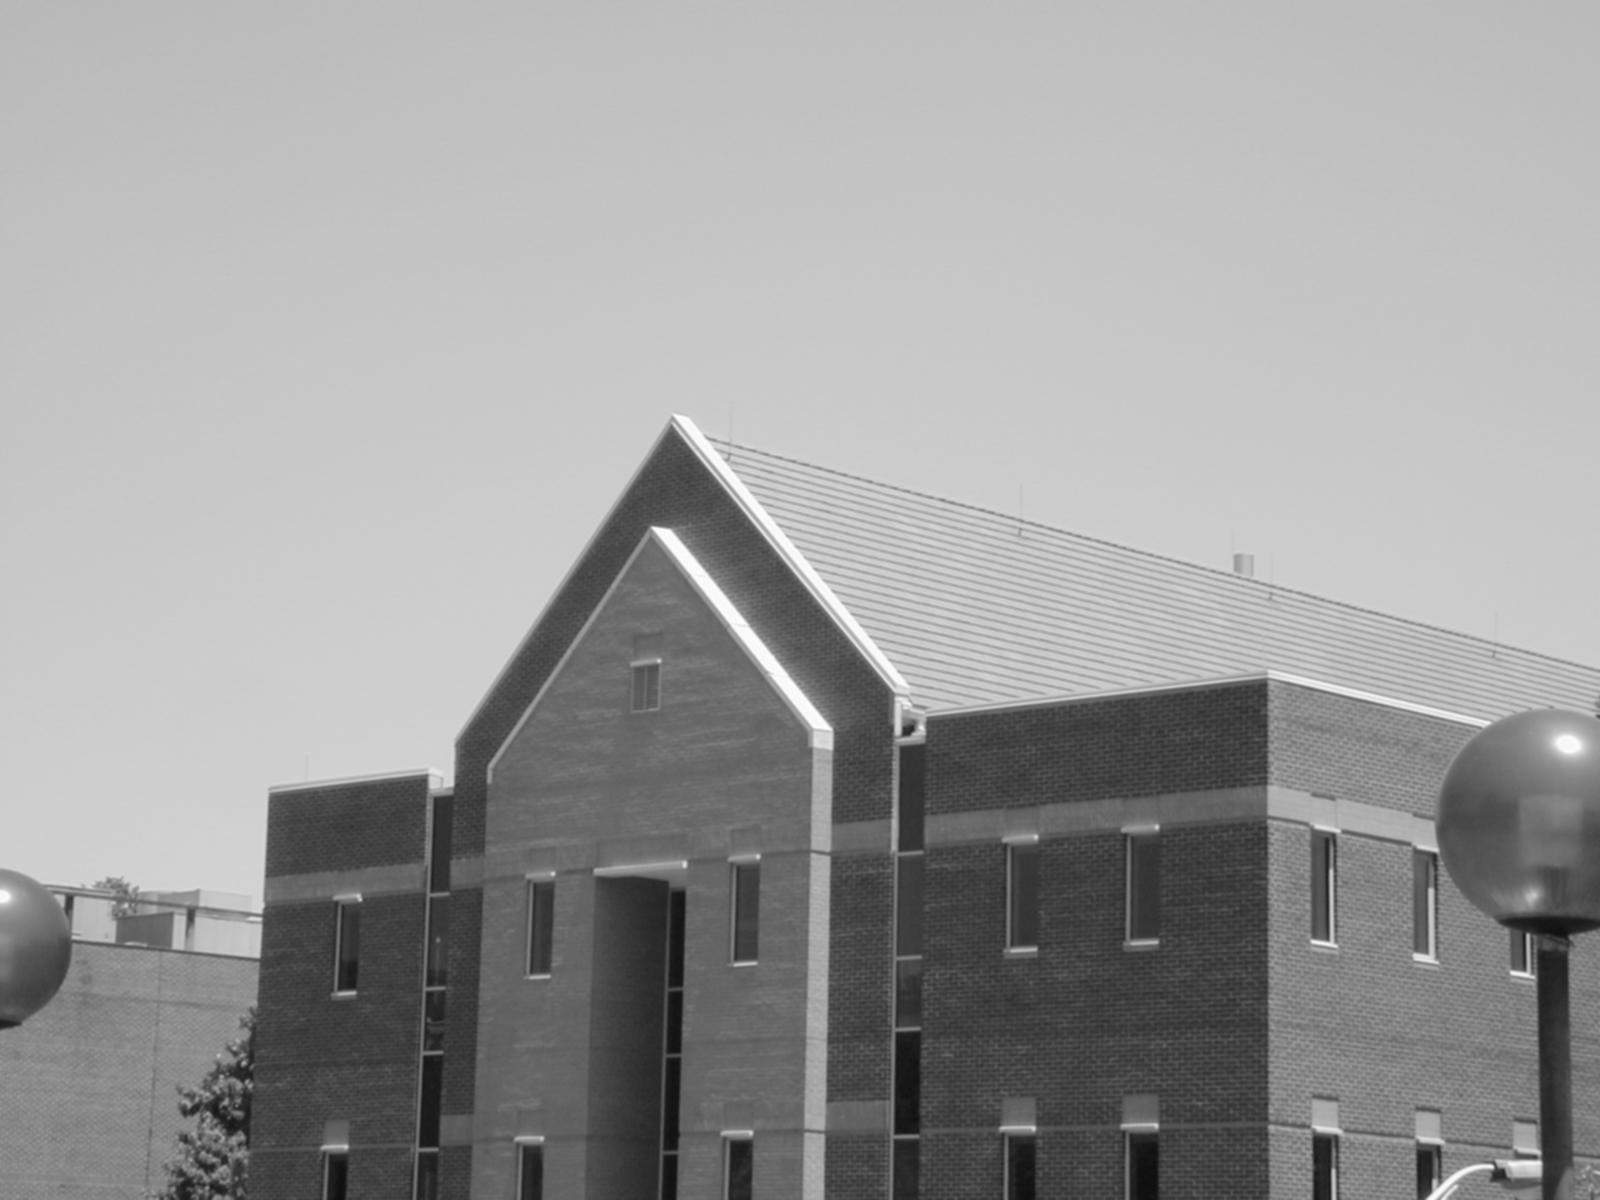
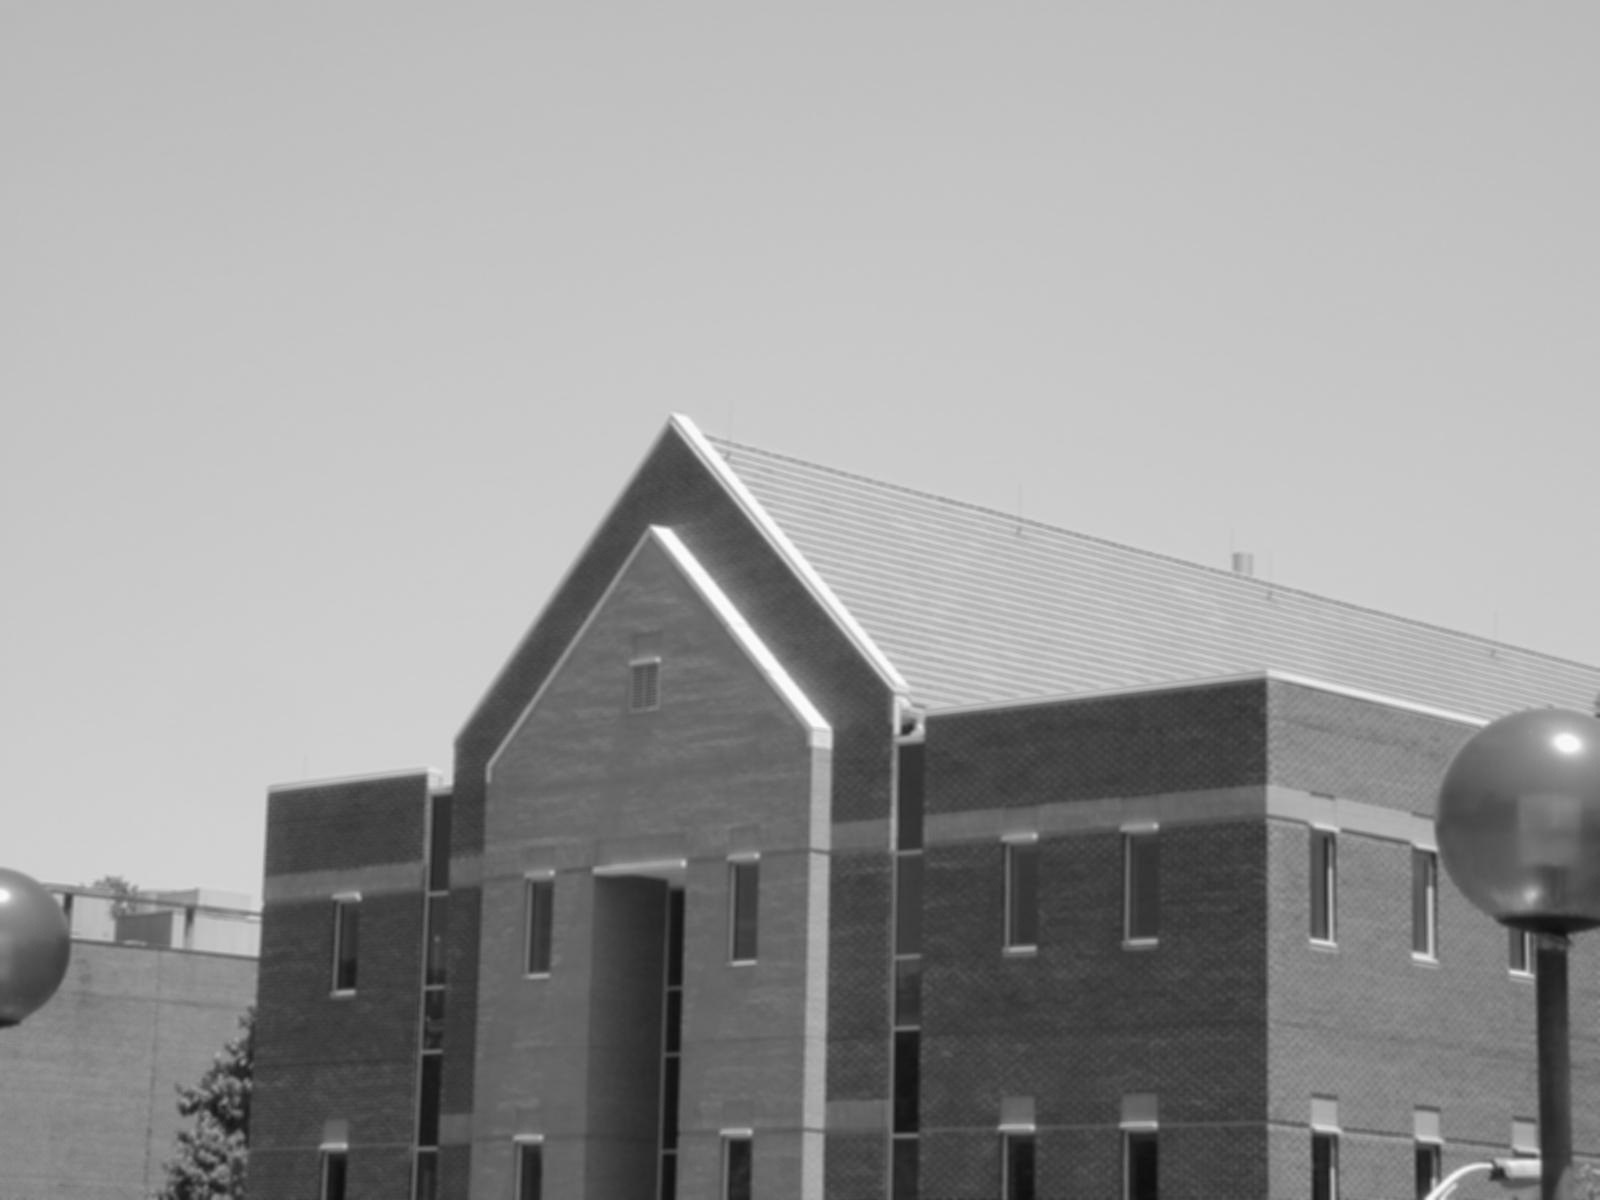
add 3

diff --git a/questao3.py b/questao3.py
@@ -93,6 +93,46 @@ def convolucaonxn(imagem, filtro, constante, nome, tamanho_filtro, correcao,rota
 
     return img
 
+def convolucaonxn_v2(imagem, filtro, tamanho_filtro):
+
+    pixels = np.asarray(imagem, dtype='float64')
+
+    ##Realiza a convulação
+    img = Image.new(imagem.mode, imagem.size, color = 'black')
+    pixels_n = np.asarray(img,dtype='float64')
+
+    for i in range(imagem.size[0]):
+        for j in range(imagem.size[1]):
+
+            resultado=0
+            initCounter = - int(tamanho_filtro/2)
+            linha = initCounter
+            coluna = initCounter
+            
+            for ii in filtro:
+                for jj in ii:
+
+                    pos_y=i+linha
+                    pos_x=j+coluna
+                    ##Trata Bordas aqui
+                    if(pos_y<0):
+                        pos_y=0
+                    if(pos_x<0):
+                        pos_x=0
+                    if(pos_y>=imagem.size[0]):
+                        pos_y=imagem.size[0]-1
+                    if(pos_x>=imagem.size[1]):
+                        pos_x=imagem.size[1]-1
+                    resultado+=pixels[pos_x, pos_y]*jj
+                    
+                    coluna+=1
+                
+                coluna = initCounter
+                linha+=1
+            
+            pixels_n[j,i]=resultado
+
+    return pixels_n
 
 def main():
     #Filtro: Passa-Baixa 3x3
@@ -100,6 +140,14 @@ def main():
     Filtro_Passa_Baixa_3x3 = [[1, 1, 1],
                               [1, 1, 1],
                               [1, 1, 1]]
+
+    #Filtro: Passa-Baixa 5x5
+    Constante_Passa_Baixa_5x5 = 1/25
+    Filtro_Passa_Baixa_5x5 = [[1, 1, 1, 1, 1],
+                              [1, 1, 1, 1, 1],
+                              [1, 1, 1, 1, 1],
+                              [1, 1, 1, 1, 1],
+                              [1, 1, 1, 1, 1]]
 
     #Filtro: Gaussiano 3x3
     Constante_Gaussiano_3x3 = 1/16
@@ -132,10 +180,46 @@ def main():
     imagem = Image.open('input/Fig10.10(a).jpg')
 
     #usar borramento mais agressivo
-    temp=convolucaonxn(imagem,Filtro_Passa_Baixa_3x3,Constante_Passa_Baixa_3x3,"tmp",3,False,True)
-    convolucaonxn(temp,Filtro_Sobel_3x3_x,1,"3_Sobel_x_com_blur",3,False,False)
-    convolucaonxn(imagem,Filtro_Sobel_3x3_x,1,"3_Sobel_x",3,False,False)
-    convolucaonxn(imagem,Filtro_Sobel_3x3_y,1,"3_Sobel_y",3,False,False)
+    print("Passando Filtro Média 5x5")
+    temp=convolucaonxn(imagem,Filtro_Passa_Baixa_5x5,Constante_Passa_Baixa_5x5,"tmp",3,False,True)
+    #convolucaonxn(temp,Filtro_Sobel_3x3_x,1,"3_Sobel_x_com_blur",3,False,False)
+    #convolucaonxn(temp,Filtro_Sobel_3x3_x,1,"3_Sobel_x_com_blur5",3,False,False)
+    
+    
+    #Calculo Gx e Gy(Sobel)
+    print("Calculando Gx")
+    Gx=convolucaonxn_v2(temp,Filtro_Sobel_3x3_x,3)
+    print("Calculando Gy")
+    Gy=convolucaonxn_v2(temp,Filtro_Sobel_3x3_y,3)
+
+    img = Image.fromarray(np.uint8(np.clip(Gx,0,255)))
+    img.save('output/3.1_Gx'+'.jpg')
+    img = Image.fromarray(np.uint8(np.clip(Gy,0,255)))
+    img.save('output/3.2_Gy'+'.jpg')
+
+    Gx_m=np.abs(Gx)
+    Gy_m=np.abs(Gy)
+    img = Image.fromarray(np.uint8(np.clip(Gx_m,0,255)))
+    img.save('output/3.1_Gx_m'+'.jpg')
+    img = Image.fromarray(np.uint8(np.clip(Gy_m,0,255)))
+    img.save('output/3.2_Gy_m'+'.jpg')
+
+    # |Gx|+|Gy|
+    print("Calculando Gradiente: |Gx|+|Gy|")
+    Grad=np.clip(Gx_m+Gy_m,0,255)
+    img = Image.fromarray(np.uint8(Grad))
+    img.save('output/3.3_Grad'+'.jpg')
+
+    #Limiar de x%
+    Max=np.amax(Grad)
+
+    print("Limiares")
+    for i in range(11):
+        corte=Max*(i/10.0)
+        Grad_C=np.clip(Grad,corte,255)
+        img = Image.fromarray(np.uint8(Grad_C))
+        img.save('output/3.4_Limiar_'+str(i/10.0)+'.jpg')
+
 
     return
 
